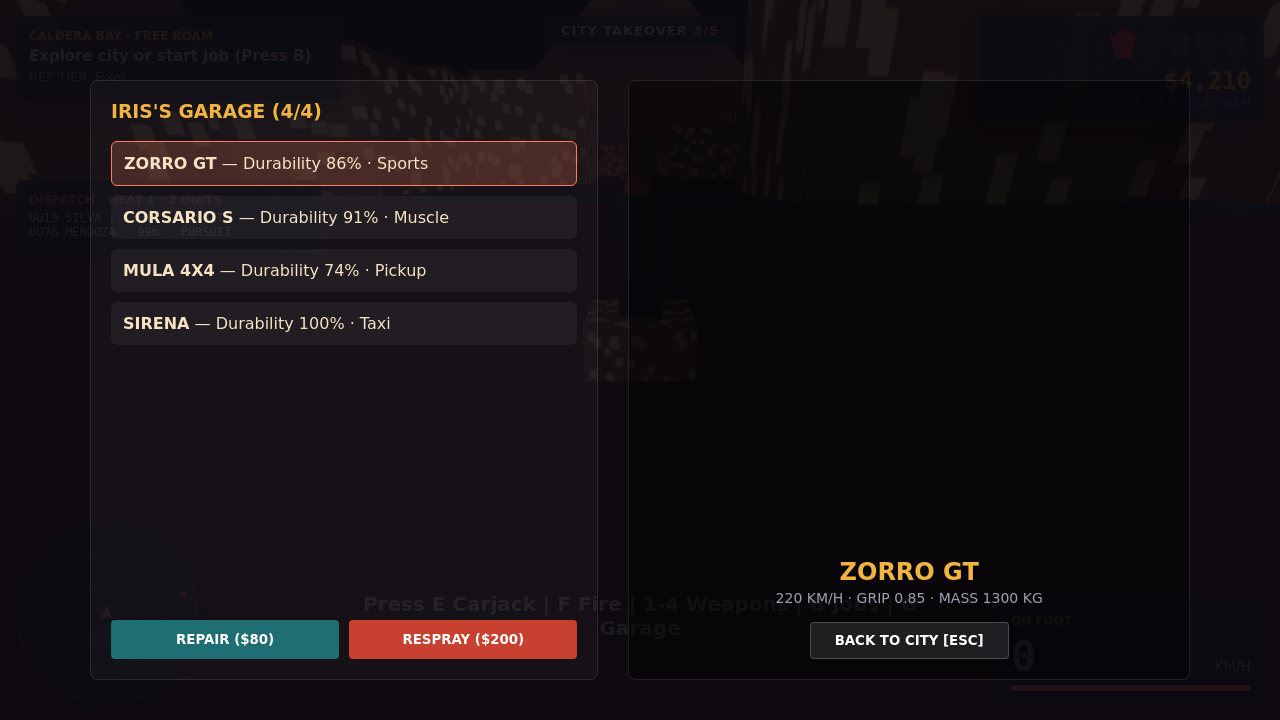
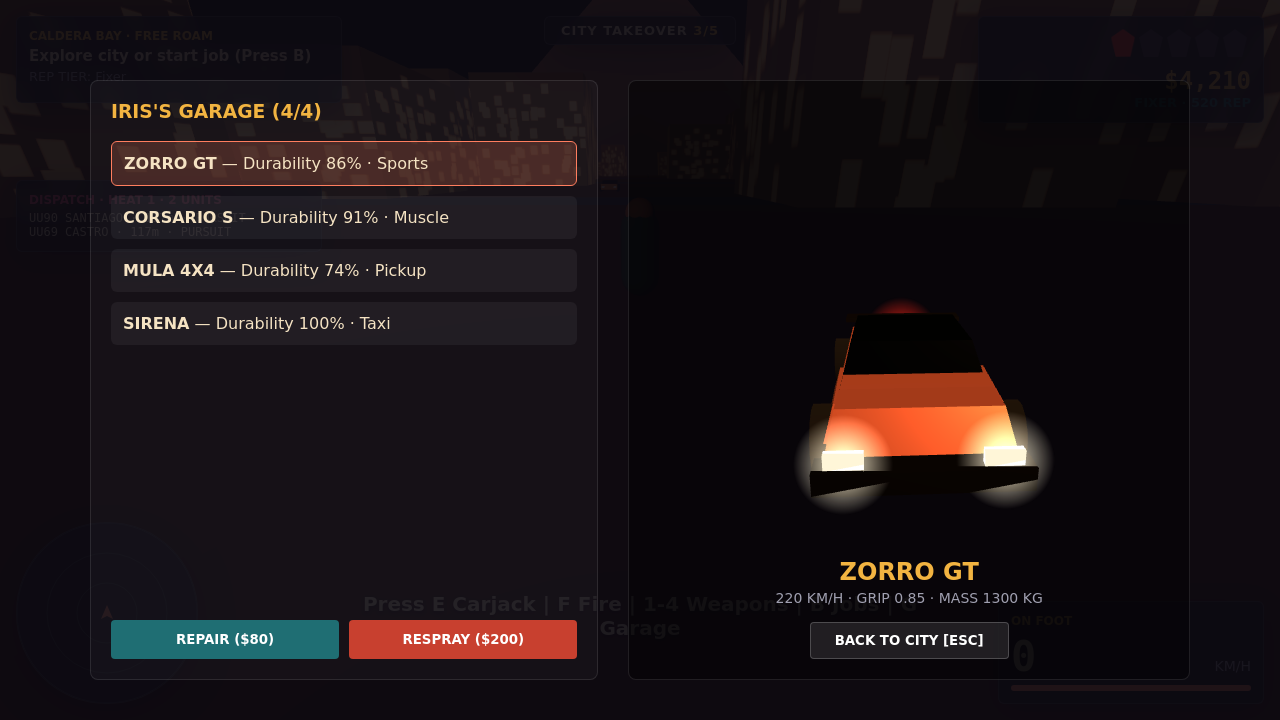
Lively M15: calibrated screenshots + stray mesh fix

Changed region(s): [[0.625, 0.5194, 0.8438, 0.7028], [0.6875, 0.3972, 0.7188, 0.4583]]

diff --git a/game/main.js b/game/main.js
@@ -66,9 +66,6 @@ function init() {
   screens = createScreens({ player, save, economy, radio, renderer, scene });
 
   const group = new THREE.Group();
-  // const legs = new THREE.Mesh(new THREE.BoxGeometry(0.4, 0.8, 0.4), new THREE.MeshStandardMaterial({ color: 0x2A2A32 }));
-  // legs.position.set(0, 0.4, 0);
-  // group.add(legs);
   const torso = new THREE.Mesh(new THREE.CapsuleGeometry(0.2, 0.5), new THREE.MeshStandardMaterial({ color: 0x1F6E73 }));
   torso.position.set(0, 1.2, 0);
   group.add(torso);
@@ -312,11 +309,14 @@ window.__calderaTest = {
   },
   stagePoliceAbeam(count = 3) {
     police.units = [];
-    // Positions relative to player's heading: e.g. (-7, -9), (7, -11), (0, -20)
     const offsets = [
-      { x: -7, z: -9 },
-      { x: 7, z: -11 },
-      { x: 0, z: -20 }
+      { x: 0, z: -15 },
+      { x: -6, z: -10 },
+      { x: 6, z: -12 },
+      { x: -1, z: -22 },
+      { x: 10, z: 20 },
+      { x: -10, z: 20 },
+      { x: 0, z: 30 }
     ];
 
     for (let i = 0; i < count; i++) {
@@ -332,12 +332,12 @@ window.__calderaTest = {
       const z = player.z + rz;
 
       const mesh = createCarMesh('fenix', 'full');
-      mesh.position.set(x, 0, z);
+      mesh.position.set(x, groundHeight(x, z), z);
       mesh.rotation.y = player.heading; // Face same direction as player
       scene.add(mesh);
       police.units.push({
         id: 'P' + i,
-        name: ['PERALTA', 'GARCÍA', 'ROJAS', 'SILVA'][i % 4],
+        name: ['PERALTA', 'GARCÍA', 'ROJAS', 'SILVA', 'SANTIAGO', 'JIMÉNEZ', 'MORALES'][i % 7],
         mesh,
         x, z,
         tactic: 'PURSUIT'
@@ -352,6 +352,10 @@ window.__calderaTest = {
     u.vx = 0;
     u.vz = 0;
     u.speed = 0;
+    u.staged = true;
+    const px = player.car ? player.car.x : player.x;
+    const pz = player.car ? player.car.z : player.z;
+    u.distance = Math.round(Math.sqrt((x - px)**2 + (z - pz)**2));
     u.mesh.position.set(x, groundHeight(x, z), z);
     return true;
   },

diff --git a/game/city.js b/game/city.js
@@ -144,6 +144,16 @@ export function createCity(scene) {
   const meshBlock = new THREE.InstancedMesh(facadeGeom, facadeMat, 200);
   const meshWarehouse = new THREE.InstancedMesh(facadeGeom, facadeMat, 200);
   const meshVilla = new THREE.InstancedMesh(facadeGeom, facadeMat, 174);
+
+  // Hide all initially
+  const hiddenMatrix = new THREE.Matrix4().makeScale(0, 0, 0);
+  for (let i = 0; i < 200; i++) {
+    meshShop.setMatrixAt(i, hiddenMatrix);
+    meshBlock.setMatrixAt(i, hiddenMatrix);
+    meshWarehouse.setMatrixAt(i, hiddenMatrix);
+    if (i < 174) meshVilla.setMatrixAt(i, hiddenMatrix);
+  }
+
   scene.add(meshShop, meshBlock, meshWarehouse, meshVilla);
 
   // --- Population ---

diff --git a/game/police.js b/game/police.js
@@ -193,9 +193,13 @@ export const police = {
 
       const targetHeading = Math.atan2(dx, dz);
       u.heading = targetHeading;
-      u.speed = 14 + this.heat * 2.5;
-      u.x += Math.sin(targetHeading) * u.speed * dt;
-      u.z += Math.cos(targetHeading) * u.speed * dt;
+      if (u.staged) {
+        u.speed = 0;
+      } else {
+        u.speed = 14 + this.heat * 2.5;
+        u.x += Math.sin(targetHeading) * u.speed * dt;
+        u.z += Math.cos(targetHeading) * u.speed * dt;
+      }
       if (u.mesh) {
         u.mesh.position.set(u.x, 0, u.z);
         u.mesh.rotation.y = u.heading;

diff --git a/game/screens.js b/game/screens.js
@@ -174,7 +174,7 @@ export function createScreens(ctx) {
       previewCamera.position.set(0, 2.5, 6);
       previewCamera.lookAt(0, 0.5, 0);
 
-      previewRenderer = new THREE.WebGLRenderer({ antialias: true, alpha: true });
+      previewRenderer = new THREE.WebGLRenderer({ antialias: true, alpha: true, preserveDrawingBuffer: true });
       previewRenderer.setSize(width, height);
       container.appendChild(previewRenderer.domElement);
 
